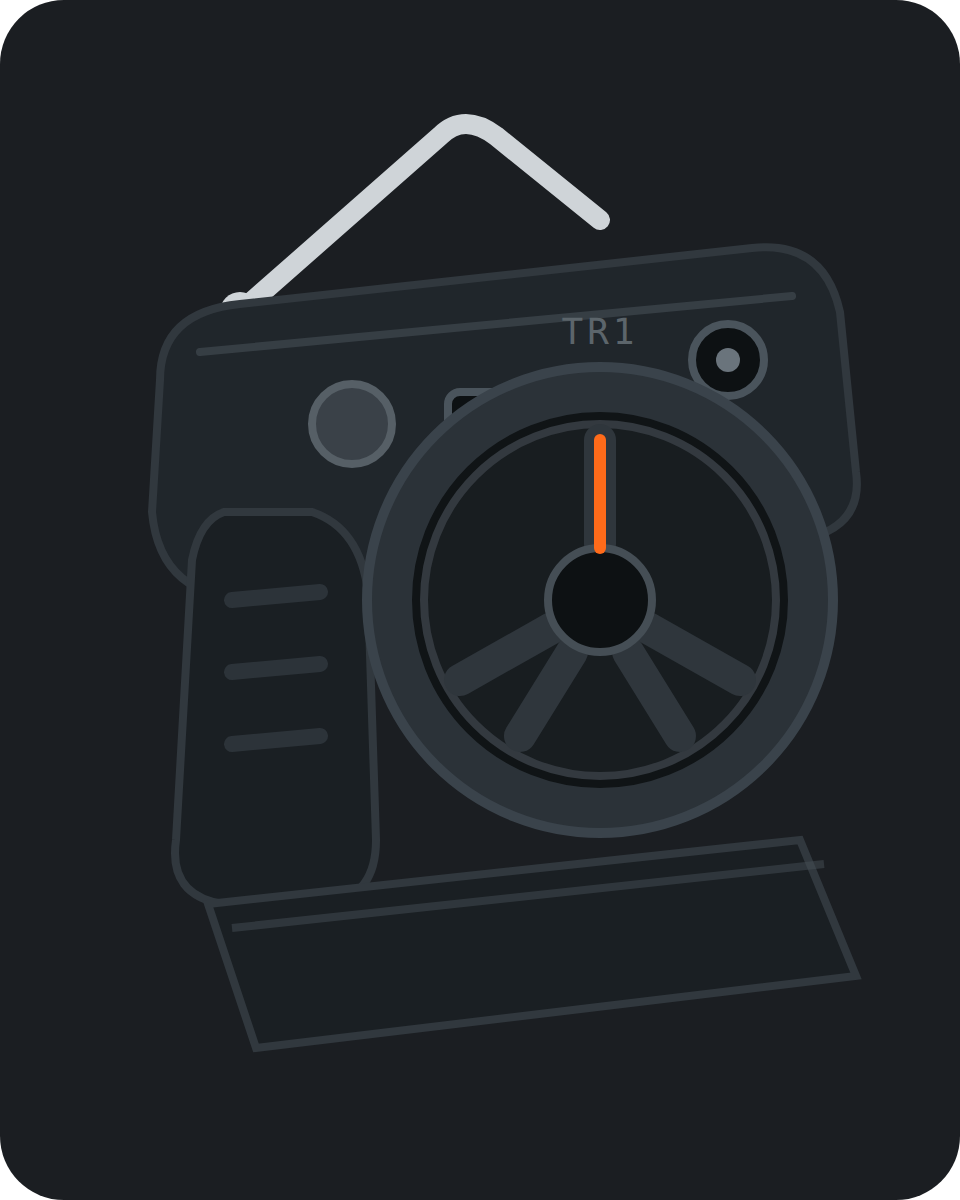
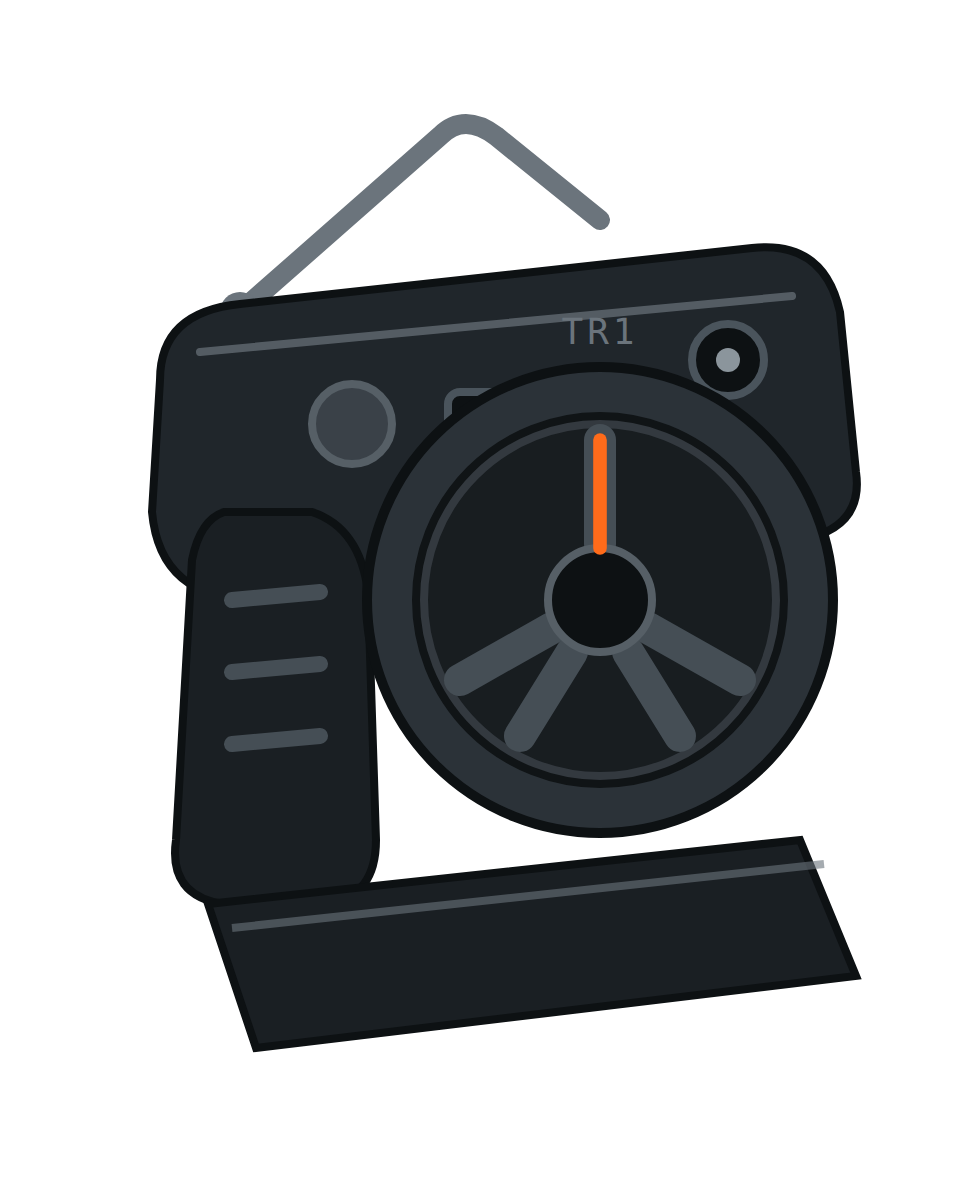
Add files via upload

diff --git a/index.html b/index.html
@@ -225,9 +225,15 @@
   .exp-card .exp-cta svg{width:14px;height:14px;transition:transform .2s;}
   .exp-card:hover .exp-cta svg{transform:translateX(4px);}
   .exp-thumb{
-    display:block;align-self:flex-start;height:96px;width:auto;max-width:100%;
+    display:block;align-self:flex-start;height:auto;max-width:100%;
     border-radius:10px;border:1px solid var(--line);margin-bottom:22px;
-    background:var(--panel-2);object-fit:cover;
+    background:var(--panel-2);
+  }
+  .exp-thumb.is-remote{width:200px;}
+  .exp-thumb.is-color{width:340px;}
+  @media(max-width:480px){
+    .exp-thumb.is-remote{width:160px;}
+    .exp-thumb.is-color{width:100%;}
   }
 
   /* ─── FAQ ─── */
@@ -635,7 +641,7 @@
   <div class="wrap">
     <div class="exp-grid reveal">
       <a class="exp-card" href="simulator.html">
-        <img class="exp-thumb" src="icons/exp-simulator.png" alt="操縦リモコンのイメージ">
+        <img class="exp-thumb is-remote" src="icons/exp-simulator.png" alt="操縦リモコンのイメージ">
         <span class="exp-tag">操船トレーニング</span>
         <h3>ブラウザで操船を<br>体験できます。</h3>
         <p>Uターンして機体がこちら向きになった瞬間、舵の左右感覚は入れ替わります。実機に乗る前に、シミュレーターで操縦感覚を練習できます。</p>
@@ -644,7 +650,7 @@
         </span>
       </a>
       <a class="exp-card" href="color.html">
-        <img class="exp-thumb" src="icons/exp-color.png" alt="ボディーカラー A/B パターンのイメージ">
+        <img class="exp-thumb is-color" src="icons/exp-color.png" alt="ボディーカラー A/B パターンのイメージ">
         <span class="exp-tag">カラーシミュレーション</span>
         <h3>本体カラーをその場で<br>確認できます。</h3>
         <p>船体のブルー部分の色を自由に選んで、仕上がりイメージを確認できます。黒のデッキカバー・ボトム・カーボンフレームの色は変わりません。</p>
